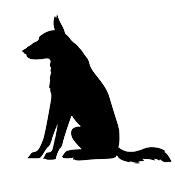
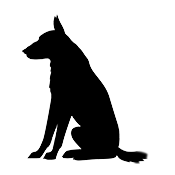
added placeholder images to animal detail page for animals with no photos

Changed region(s): [[0.7714, 0.8286, 1.0, 0.9429]]

diff --git a/main_app/templates/animals/detail.html b/main_app/templates/animals/detail.html
@@ -31,7 +31,7 @@
                          <div class="col-lg-4 offset-lg-2">
                             <!-- owl slider -->
                             <div id="owl-adopt-single" class="owl-carousel top-centered-nav owl-theme" >
-                                {% for i in animal.animal.photos %}
+                                {% if animal.animal.photos %}{% for i in animal.animal.photos %}
     <div class="col-md-12">
 
         <!-- image -->
@@ -41,6 +41,17 @@
 
     </div>
                                 {% endfor %}
+                                {% else %}
+    <div class="col-md-12">
+
+        <!-- image -->
+            <a href="img/adoption/adoption1.jpg" title="your caption here">
+                <img src="{% if animal.animal.type == 'Dog' %}{% static 'assets/dogplaceholder.png' %}{% elif animal.animal.type == 'Cat'%}{% static 'assets/catplaceholder.png' %}{% else %}{% static 'assets/dogplaceholder.png' %}{% endif %}"  id="petdetailphotoheight" class="border-irregular1 img-fluid hover-opacity" alt="">
+            </a>
+
+    </div>
+                            {% endif %}
+
 <!-- /col-md-12 -->
 {#                               <div class="col-md-12">#}
 {#                                  <!-- image -->#}
@@ -90,7 +101,7 @@
                                <!-- /div-->
                             </div>
                             <!-- /row-->
-                            
+
                          <div>
                                                                                                <span class="h7">Characteristics:  </span><span>{% for tag in animal.animal.tags %}{{ tag }} {% endfor %}</span>
                          </div>
@@ -185,3 +196,5 @@
 
 
 {% endblock %}
+
+
